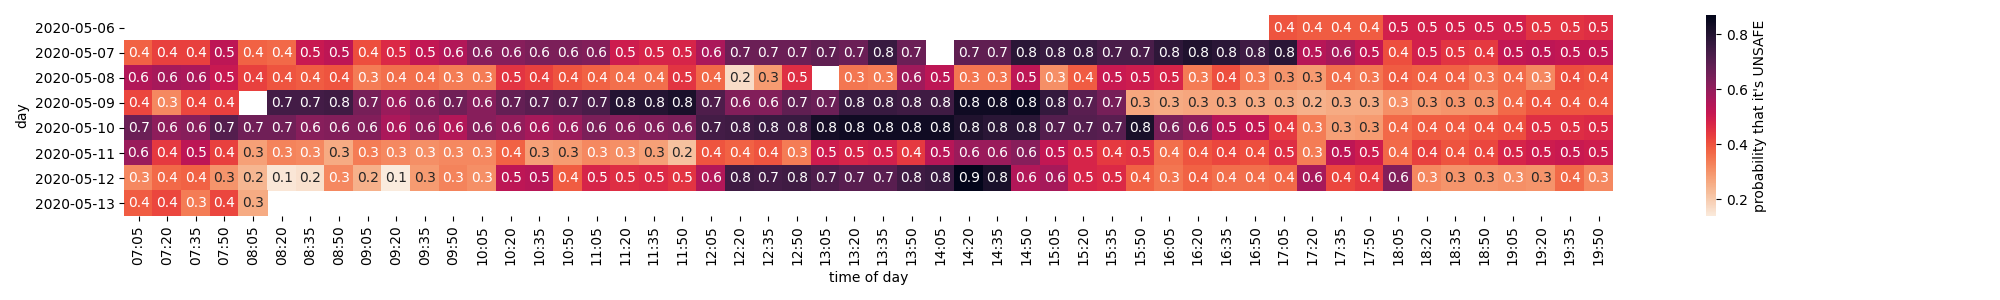
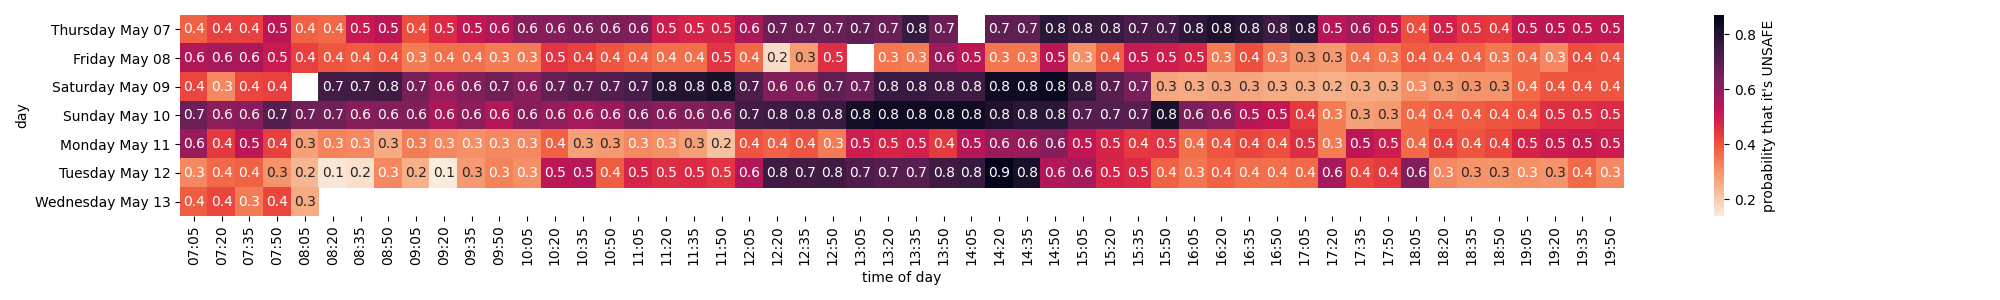
Added colloquial weekday names to frontend heatmap.

diff --git a/src/d07_streamlit/front_end.py b/src/d07_streamlit/front_end.py
@@ -36,7 +36,7 @@ st.markdown("### **Is it easy to practice social distancing in Prospect Park rig
 
 # Function that displays recommendation
 def display_recommendation(model):
-    import pandas as pd
+    from pandas import to_datetime
     
     # Obtain the verdict from the most recently updated model
     f = open("../d05_reporting/prediction_"+model,"r")
@@ -46,7 +46,7 @@ def display_recommendation(model):
     prediction = f.read()
     num_ans = re.search('(\d\.\d)',prediction).group(1)
     timestamp = re.search('(\d\d\d\d-\d\d-\d\d \d\d:\d\d:\d\d) \d\.\d',prediction).group(1)
-    timestamp = pd.to_datetime(timestamp,utc=True).tz_convert(tz = 'US/Eastern')
+    timestamp = to_datetime(timestamp,utc=True).tz_convert(tz = 'US/Eastern')
     timestamp = timestamp.strftime('%B %d %Y, at %I:%M %p')
     
     # Find the right text answer and thumbs-up or thumbs-down sign
@@ -199,7 +199,7 @@ if recent_predictions:
     df['daily_bin'] = daily_bin
     
     # Create a set of readable labels for each day
-    xlabels = pd.unique(df.time_bin.apply(lambda x: x.strftime("%Y-%m-%d")))
+    xlabels = pd.unique(df.time_bin.apply(lambda x: x.strftime("%A %B %d")))
     
     # Create specialized dataframe that we will use to generate our heatmap
     for_map = df.pivot_table(index='day', columns='daily_bin', values='prob_unsafe')
